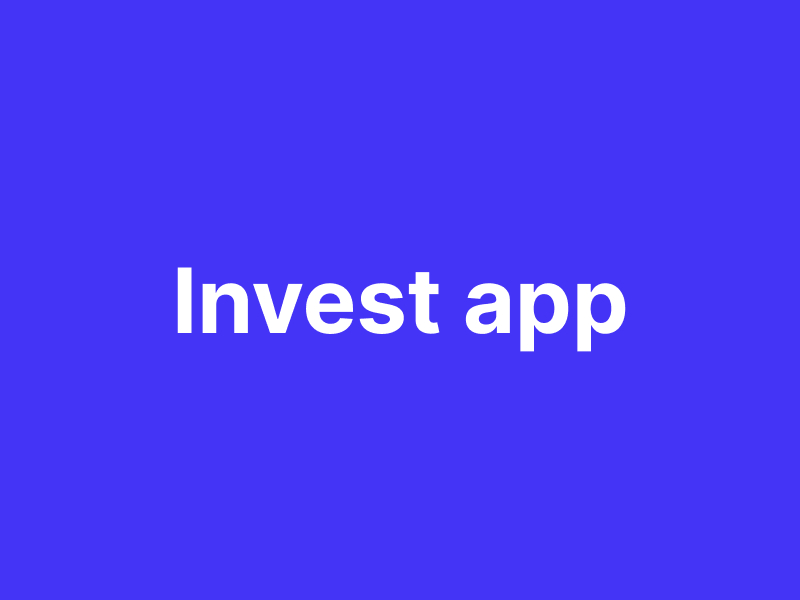
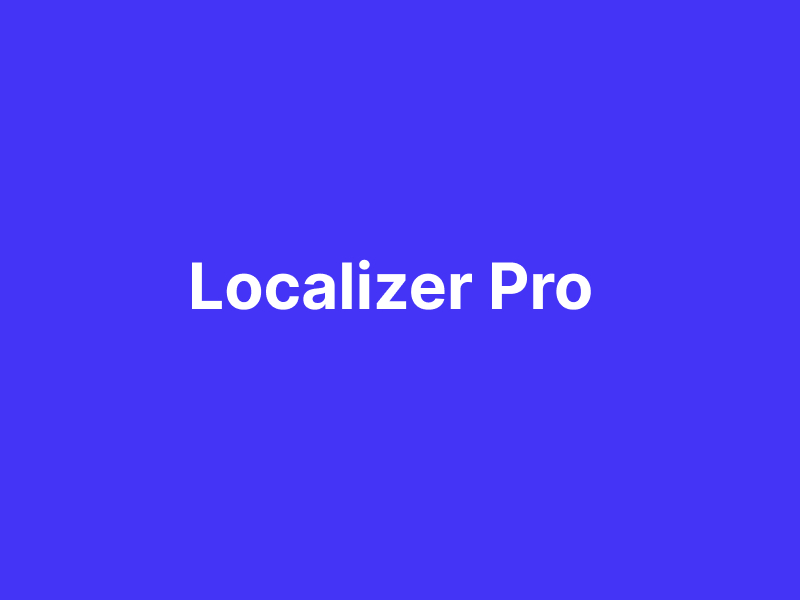
refactoring

Changed region(s): [[0.2188, 0.42, 0.7812, 0.6]]

diff --git a/app/layout.tsx b/app/layout.tsx
@@ -1,5 +1,4 @@
 import { Open_Sans } from 'next/font/google';
-import { BASE_URL } from '@/config';
 import { Metadata } from 'next';
 import type { Viewport } from 'next';
 import { Header } from '@/components/Header';
@@ -34,27 +33,27 @@ export const viewport: Viewport = {
 
 export const metadata: Metadata = {
   title: {
-    default: 'Financial Exchange Platform',
-    template: '%s | Financial Exchange Platform',
+    default: 'My Localizer',
+    template: '%s | My Localizer',
   },
   description:
-    'A leading financial exchange platform for trading and investment.',
-  applicationName: 'Financial Exchange Platform',
+    'An intuitive tool for JSON localization and length analysis across languages.',
+  applicationName: 'My Localizer',
   authors: [
     {
-      name: 'Financial Exchange Team',
-      url: BASE_URL,
+      name: 'My Localizer Team',
+      url: 'https://mylocalizer.example.com',
     },
   ],
-  metadataBase: new URL(BASE_URL),
+  metadataBase: new URL('https://mylocalizer.example.com'),
   generator: 'Next.js',
-  keywords: ['financial', 'exchange', 'trading', 'investment', 'platform'],
+  keywords: ['localization', 'JSON', 'translation', 'language', 'length analysis'],
   referrer: 'origin',
-  creator: 'Financial Exchange Team',
-  publisher: 'Financial Exchange Inc.',
+  creator: 'My Localizer Team',
+  publisher: 'My Localizer Inc.',
   robots: { index: true, follow: true },
   alternates: {
-    canonical: BASE_URL,
+    canonical: 'https://mylocalizer.example.com',
   },
   icons: {
     icon: '/favicon.ico',
@@ -62,32 +61,32 @@ export const metadata: Metadata = {
   },
   manifest: '/manifest.webmanifest',
   openGraph: {
-    title: 'Financial Exchange Platform',
+    title: 'My Localizer',
     description:
-      'A leading financial exchange platform for trading and investment.',
+      'An intuitive tool for JSON localization and length analysis across languages.',
     type: 'website',
-    url: BASE_URL,
-    siteName: 'Financial Exchange Platform',
+    url: 'https://localizer.fancyapp.site/',
+    siteName: 'My Localizer',
     images: [
       {
         url: '/images/og-image.jpg',
         width: 800,
         height: 600,
-        alt: 'Financial Exchange Platform',
+        alt: 'My Localizer',
       },
     ],
   },
   appleWebApp: {
     capable: true,
-    title: 'Financial Exchange Platform',
+    title: 'My Localizer',
     statusBarStyle: 'black-translucent',
   },
   formatDetection: {
     telephone: false,
   },
-  abstract: 'A leading financial exchange platform for trading and investment.',
-  category: 'Finance',
-  classification: 'Financial Services',
+  abstract: 'An intuitive tool for JSON localization and length analysis.',
+  category: 'Software',
+  classification: 'Localization Tools',
   other: {
     'msapplication-TileColor': '#0a74da',
   },
